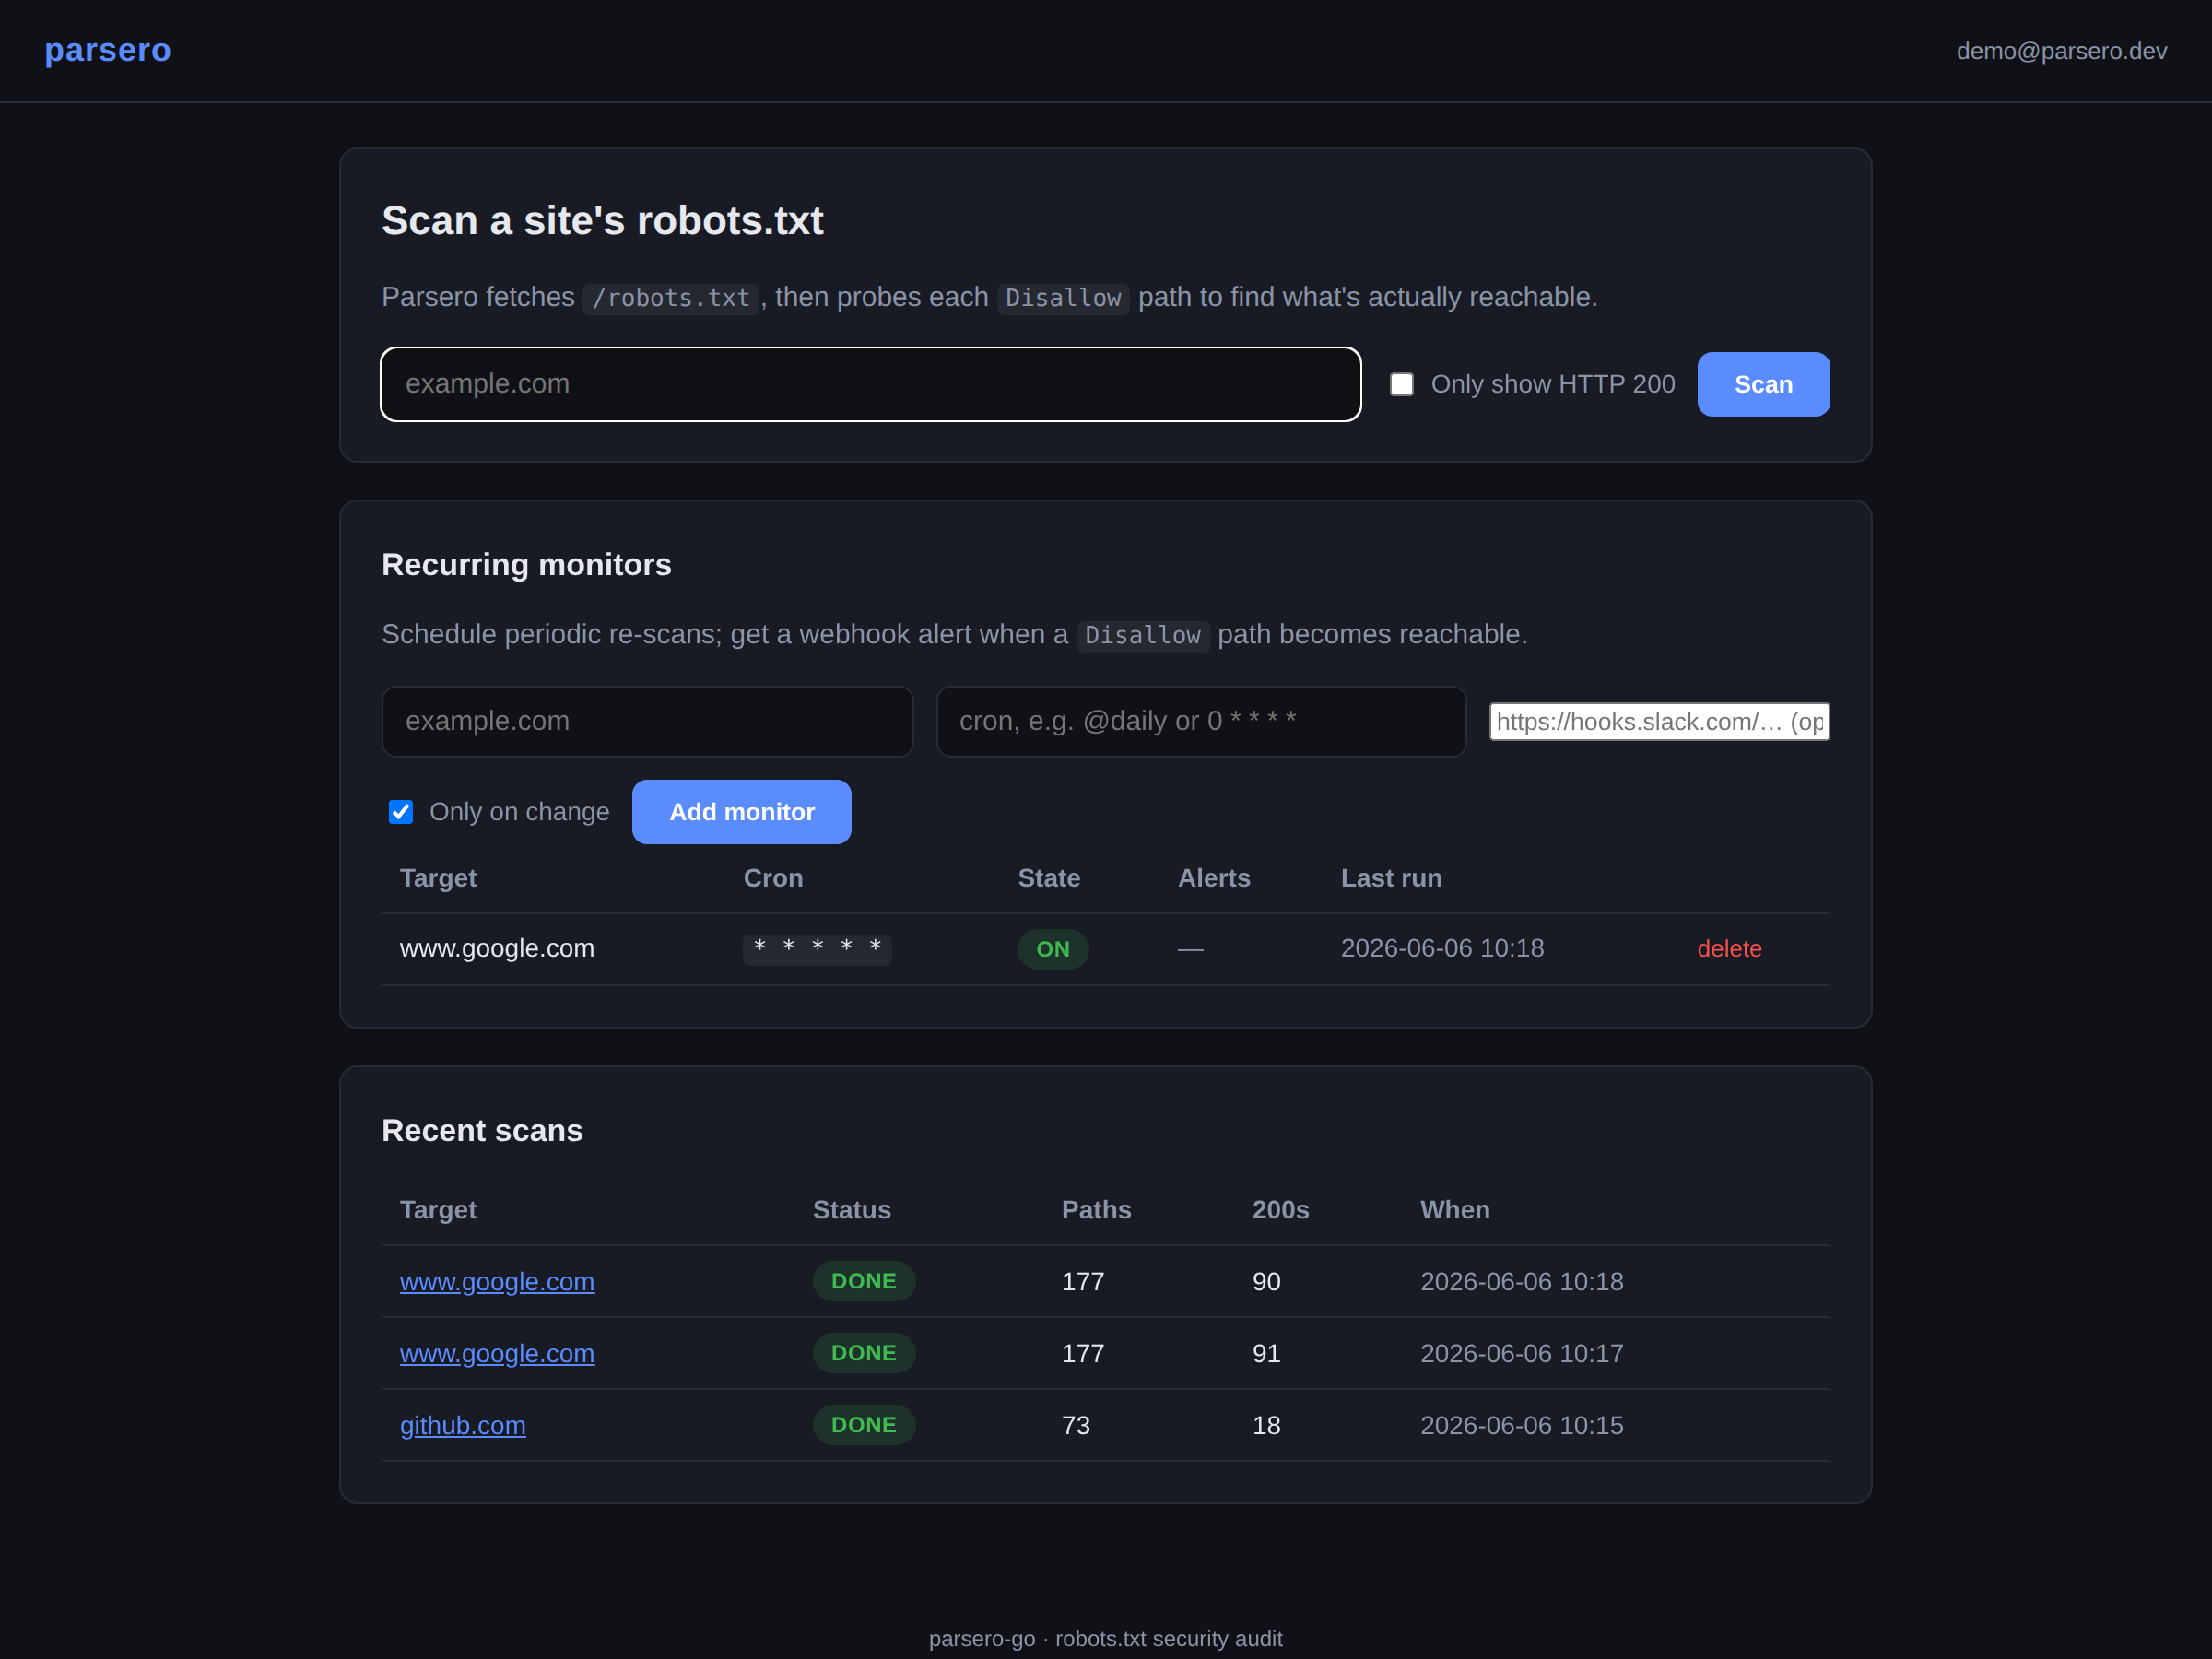
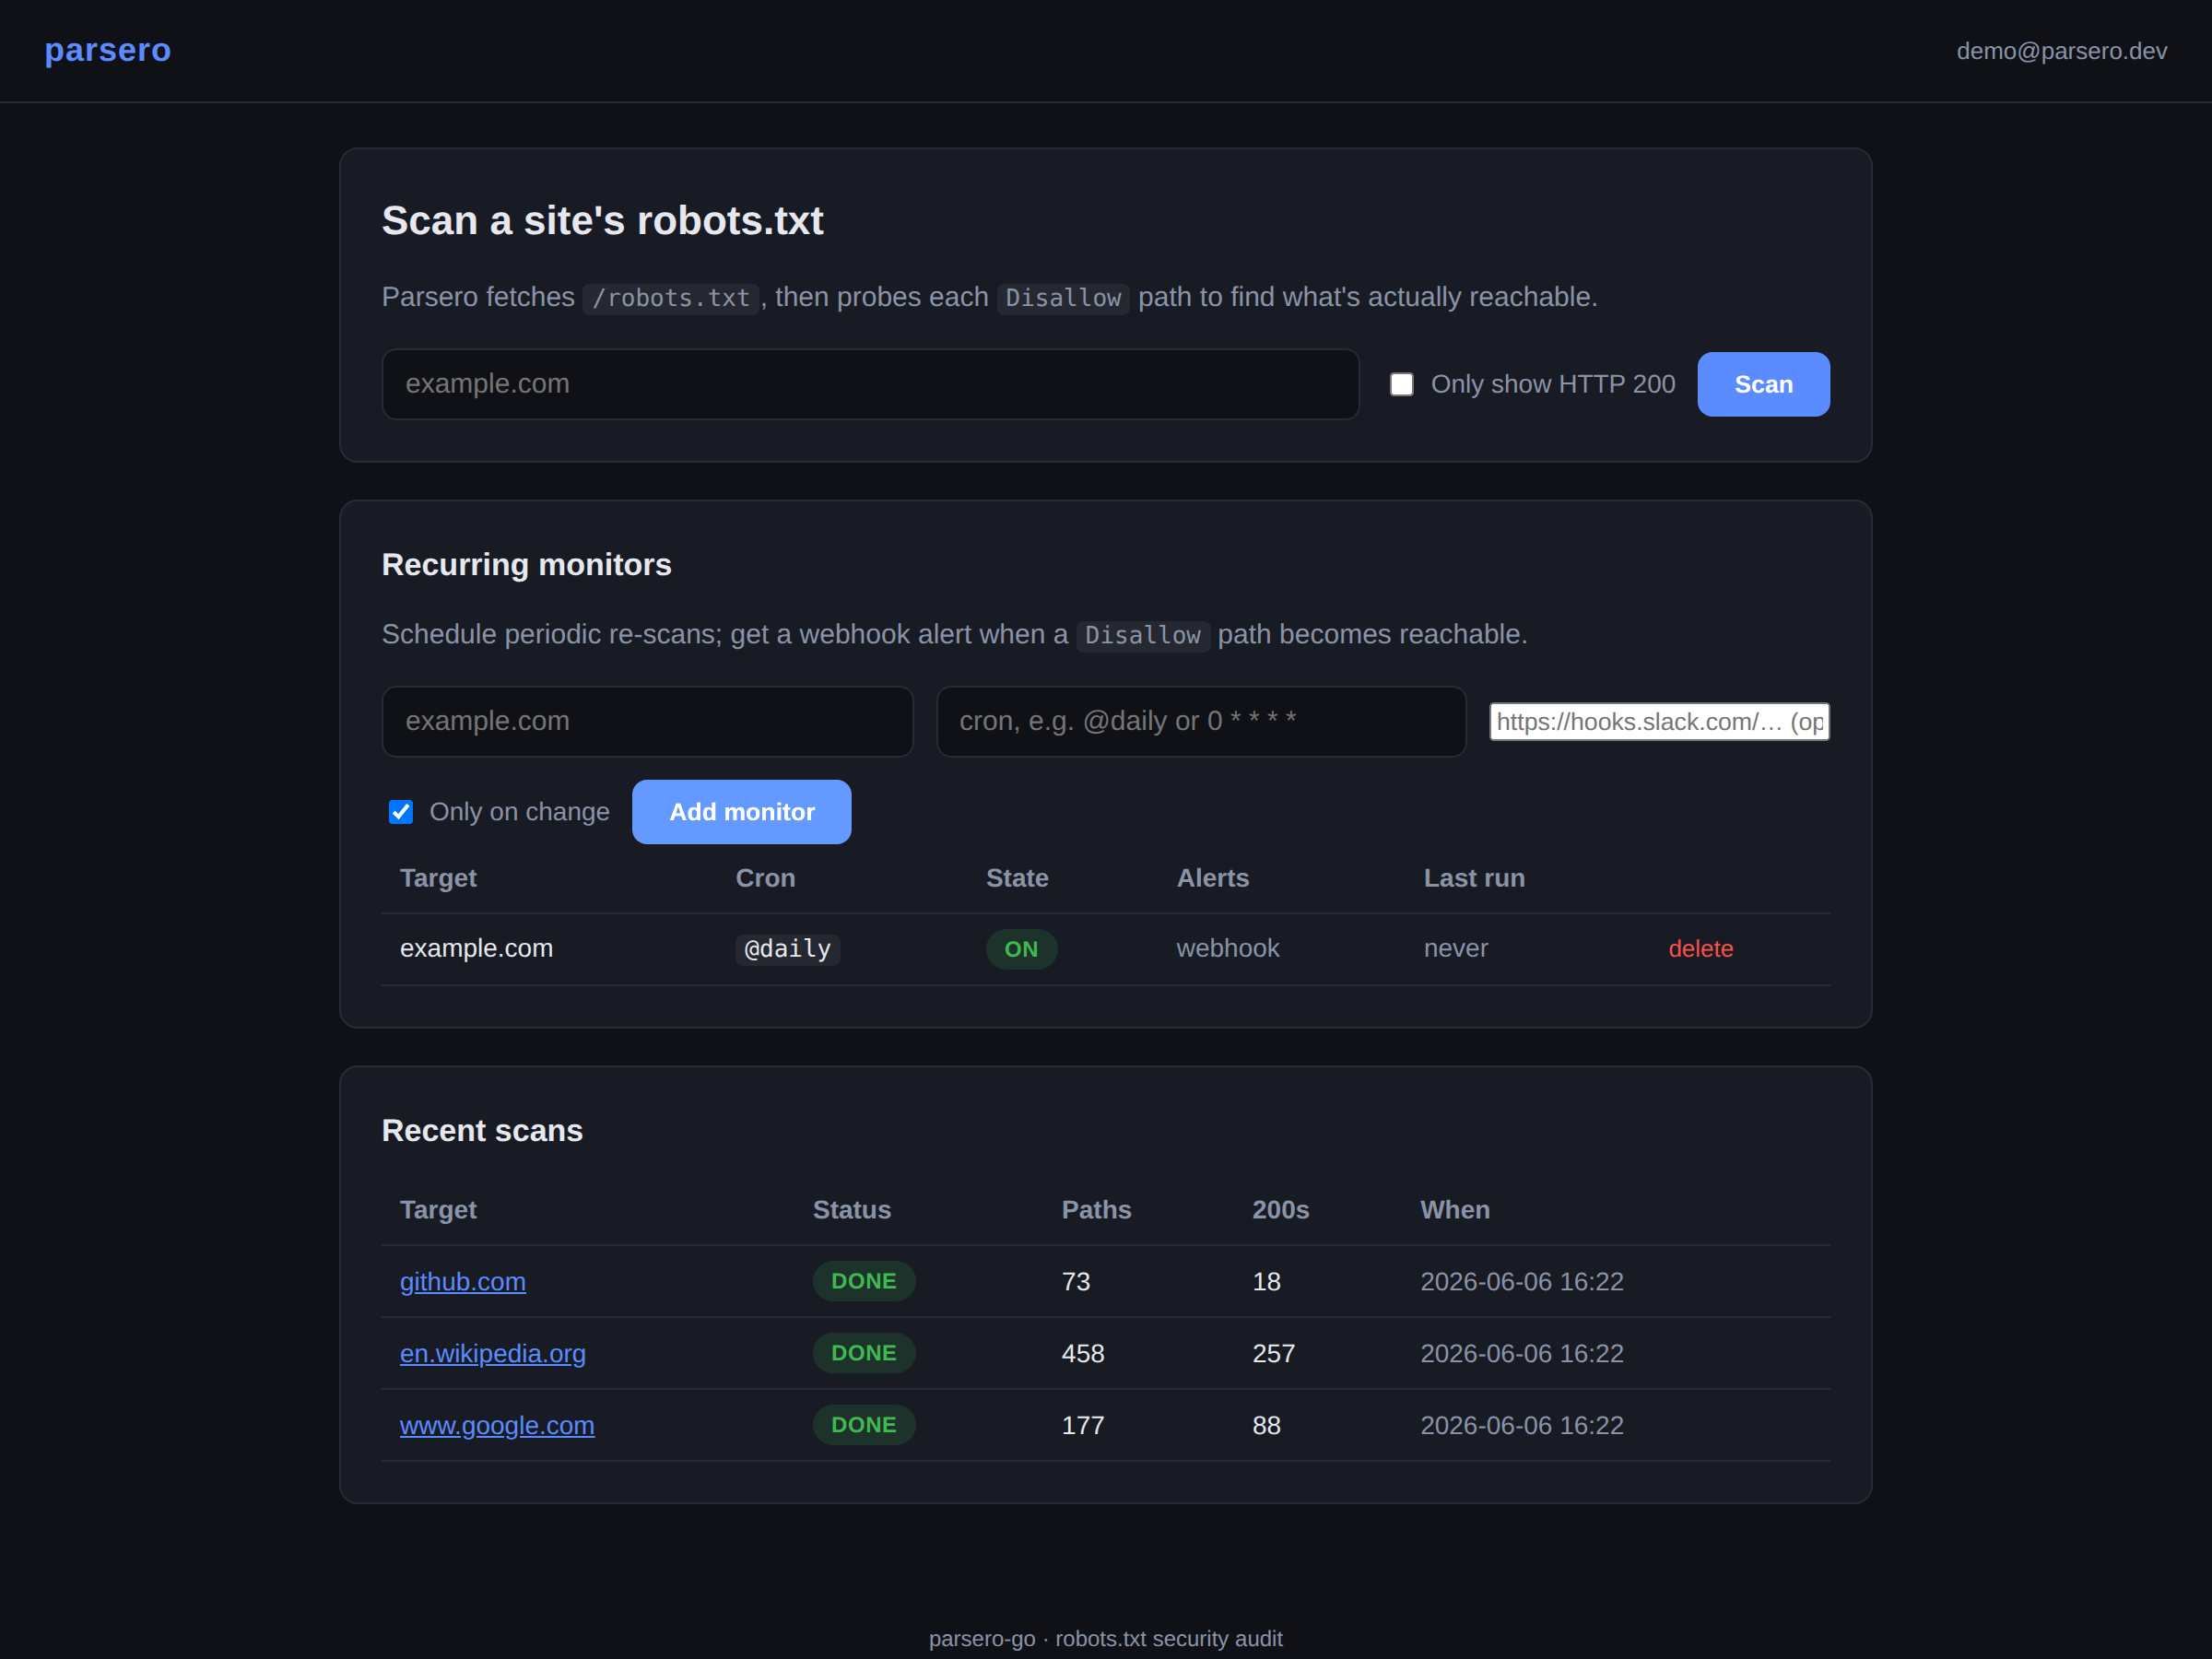
docs+ci: add Recurring monitors screenshot and capture it reproducibly
- scripts/screenshots.mjs: create a monitor through the UI, then capture a
  focused monitors.png plus refresh home.png (now showing the monitors card);
  MONITOR_TARGET/MONITOR_WEBHOOK are env-configurable
- README: monitors screenshot added to the gallery
- docker-compose.yml: SCHEDULER_ENABLED overridable from env
- screenshots workflow: disable the scheduler during capture for deterministic
  shots; monitors.png is included in the uploaded artifact

diff --git a/README.md b/README.md
@@ -165,9 +165,14 @@ and the engine is fully stateless behind a load balancer.
 
 ### Screenshots
 
-| Home — submit a scan & recent history | Live results table |
+| Home — scan, monitors & history | Live results table |
 |---|---|
 | ![Home](assets/screenshots/home.png) | ![Scan results](assets/screenshots/scan-results.png) |
+
+Recurring monitors — schedule re-scans and get alerted when a `Disallow` path
+becomes reachable:
+
+![Monitors](assets/screenshots/monitors.png)
 
 SSRF guardrails reject internal/private targets before any request is made:
 